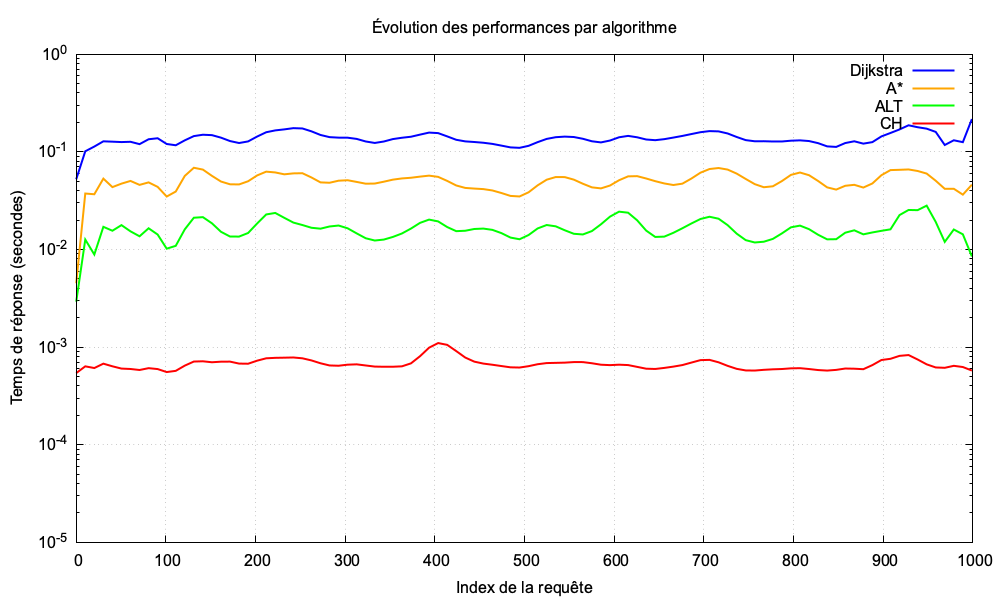
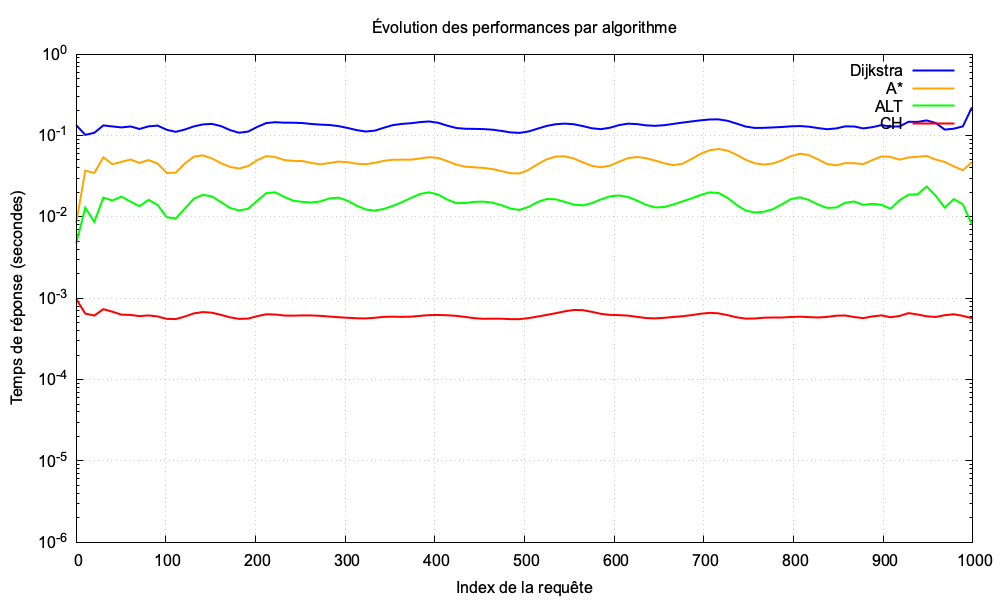
gestion warnings

diff --git a/src/main.c b/src/main.c
@@ -106,12 +106,12 @@ void run_evaluation(csr_graph_t *graphe, coordonnees_t *coords, ch_graph_t *ch, 
     save_values(e_ch,       "results/extract_ch.plot");
 
     printf("\n--- BILAN SUR %d REQUETES REUSSIES ---\n", success_count);
-    printf("Algo      | Temps Moyen (ms) | Extractions Moy. | Ecart-type Temps\n");
-    printf("Dijkstra  | %12.4Lf | %16.0Lf | %12.4Lf\n", get_average_cost(t_dijkstra)*1000, get_average_cost(e_dijkstra), get_standard_deviation(t_dijkstra)*1000, get_average_cost(m_dijkstra)/1024.0);
-    printf("A*        | %12.4Lf | %16.0Lf | %12.4Lf\n", get_average_cost(t_astar)*1000, get_average_cost(e_astar), get_standard_deviation(t_astar)*1000, get_average_cost(m_astar)/1024.0);
-    printf("ALT       | %12.4Lf | %16.0Lf | %12.4Lf\n", get_average_cost(t_alt)*1000, get_average_cost(e_alt), get_standard_deviation(t_alt)*1000, get_average_cost(m_alt)/1024.0);
-    printf("CH        | %12.4Lf | %16.0Lf | %12.4Lf\n", get_average_cost(t_ch)*1000, get_average_cost(e_ch), get_standard_deviation(t_ch)*1000, get_average_cost(m_ch)/1024.0);
-
+    printf("Algo      | Temps Moyen (ms) | Extractions Moy. | Ecart-type Temps | RAM (Mo)\n");
+    printf("Dijkstra  | %16.4Lf | %16.0Lf | %16.4Lf | %8.2Lf\n", get_average_cost(t_dijkstra)*1000, get_average_cost(e_dijkstra), get_standard_deviation(t_dijkstra)*1000, get_average_cost(m_dijkstra)/1024.0);
+    printf("A*        | %16.4Lf | %16.0Lf | %16.4Lf | %8.2Lf\n", get_average_cost(t_astar)*1000, get_average_cost(e_astar), get_standard_deviation(t_astar)*1000, get_average_cost(m_astar)/1024.0);
+    printf("ALT       | %16.4Lf | %16.0Lf | %16.4Lf | %8.2Lf\n", get_average_cost(t_alt)*1000, get_average_cost(e_alt), get_standard_deviation(t_alt)*1000, get_average_cost(m_alt)/1024.0);
+    printf("CH        | %16.4Lf | %16.0Lf | %16.4Lf | %8.2Lf\n", get_average_cost(t_ch)*1000, get_average_cost(e_ch), get_standard_deviation(t_ch)*1000, get_average_cost(m_ch)/1024.0);
+    
     analyzer_destroy(t_dijkstra);
     analyzer_destroy(e_dijkstra);
     analyzer_destroy(m_dijkstra);

diff --git a/src/tas.c b/src/tas.c
@@ -42,7 +42,7 @@ void tas_ajout(tas_binaire_t * tas, int sommet, double score, double cout_reel) 
 }
 
 element_tas_t tas_extraire_min(tas_binaire_t * tas) {
-    if (tas->size <= 0) return (element_tas_t){-1, -1.0}; // structure d'erreur si arbre vide
+    if (tas->size <= 0) return (element_tas_t){-1, -1.0, -1.0}; // structure d'erreur si arbre vide
     
     element_tas_t racine = tas->data[0]; // comme min à la racine on peut le sauvegarder
     tas->size--; // on baisse la taille du tas
